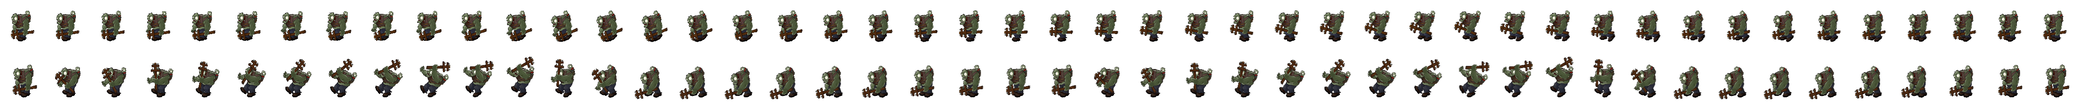
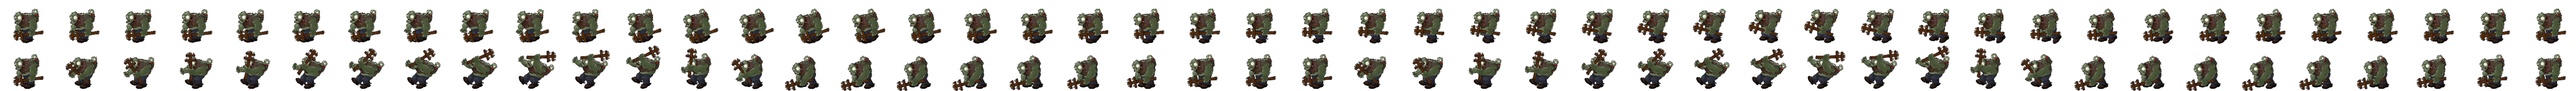
hairmetal texture position fixed

Changed region(s): [[0.0, 0.532, 1.0, 1.0], [0.0, 0.0887, 1.0, 0.4729]]

diff --git a/src/Game.cpp b/src/Game.cpp
@@ -36,17 +36,17 @@ Game::Game() {
 
 void Game::genZombie(){
 	Time elapsed = clock.getElapsedTime();
-	if(elapsed.asMilliseconds() >= ZOMBIE_GENERATE_PERIOD) {
+	if(elapsed.asMilliseconds() >= ZOMBIE_GENERATE_PERIOD ) {
 		clock.restart();
 		int x = rng() % GROUNDROWS;
 		int zombie_row_position = play_ground_position[x + 1][1].up;
 		int type_of_zombie = rng() % ZMOBIETYPESCNT;
 		if(type_of_zombie) {
-			HairMetal* zm = new HairMetal(ZOMBIE_START_X - 20 , zombie_row_position);
+			HairMetal* zm = new HairMetal(ZOMBIE_START_X , zombie_row_position - HAIRMETAL_OFFSET_Y_POSITION, x + 1);
 			zombies.push_back(zm);
 		}
 		else {
-			NormalZombie* zm = new NormalZombie(ZOMBIE_START_X , zombie_row_position);
+			NormalZombie* zm = new NormalZombie(ZOMBIE_START_X , zombie_row_position, x + 1);
 			zombies.push_back(zm);
 		}
 	}

diff --git a/src/Zombie.cpp b/src/Zombie.cpp
@@ -1,10 +1,10 @@
 #include "Zombie.hpp"
 #include "Plant.hpp"
 
-Zombie::Zombie(int x, int y, string file_name, int frame_number, int zombie_width,  int zombie_height) :
-x(x), y(y), zombie_width(zombie_width), 
+Zombie::Zombie(int x, int y, int row, string file_name, int frame_number, int zombie_width,  int zombie_height) :
+x(x), y(y), row(row), zombie_width(zombie_width), 
 zombie_height(zombie_height), frame_number(frame_number) {
-    row = (y - GROUND_UP_OFFSET) / CELLHIGHT + 1 ;
+    //row = (y - GROUND_UP_OFFSET) / CELLHIGHT + 1 ;
     current_speed = speed;
     for(int i = 0; i < frame_number; i++) {
         frames_position[i] = i * zombie_width;

diff --git a/include/Zombie.hpp b/include/Zombie.hpp
@@ -21,7 +21,7 @@ protected:
 	Sprite sprite;
 public:
 	ZombieState mode = WALKING;
-	Zombie(int x, int y, string file_name, int frame_number, int zombie_width, int zombie_height);
+	Zombie(int x, int y, int row, string file_name, int frame_number, int zombie_width, int zombie_height);
 	~Zombie(){};
 	void update();
 	void render(RenderWindow &window);

diff --git a/src/NormalZombie.cpp b/src/NormalZombie.cpp
@@ -1,6 +1,6 @@
 #include "NormalZombie.hpp"
 
-NormalZombie::NormalZombie(int x, int y) : Zombie(x, y, "files/pic/normal_zombie_walk_eat.png", 60, 100, 116) {
+NormalZombie::NormalZombie(int x, int y ,  int row) : Zombie(x, y, row, "files/pic/normal_zombie_walk_eat.png", 60, 100, 116) {
     health = 80;
     hit_rate = 6;
     damage = 20;

diff --git a/src/HairMetal.cpp b/src/HairMetal.cpp
@@ -1,7 +1,7 @@
 
 #include "HairMetal.hpp"
 
-HairMetal::HairMetal(int x, int y) : Zombie(x, y, "files/pic/hairmetal_walking_eating.png", 46, 100, 116) {
+HairMetal::HairMetal(int x, int y , int row) : Zombie(x, y, row, "files/pic/hairmetal_walking_eating.png", 46 , 124, 101) {
     health = 80;
     hit_rate = 6;
     damage = 20;

diff --git a/include/Game.hpp b/include/Game.hpp
@@ -16,6 +16,7 @@
 #include "Sun.hpp"
 #include "LawnCleaner.hpp"
 const int ZMOBIETYPESCNT = 2;
+const int HAIRMETAL_OFFSET_Y_POSITION = 40;
 /////
 const int ZOMBIE_START_X = 1000;
 const int ZOMBIE_GENERATE_PERIOD = 10000;

diff --git a/include/NormalZombie.hpp b/include/NormalZombie.hpp
@@ -7,7 +7,7 @@ class NormalZombie : public Zombie{
 protected:
 
 public:
-    NormalZombie(int x, int y);
+    NormalZombie(int x, int y ,  int row);
 };
 
 #endif

diff --git a/include/HairMetal.hpp b/include/HairMetal.hpp
@@ -5,7 +5,7 @@
 
 class HairMetal: public Zombie{
 public:
-	HairMetal(int x, int y);
+	HairMetal(int x, int y , int row);
 };
 
 #endif
